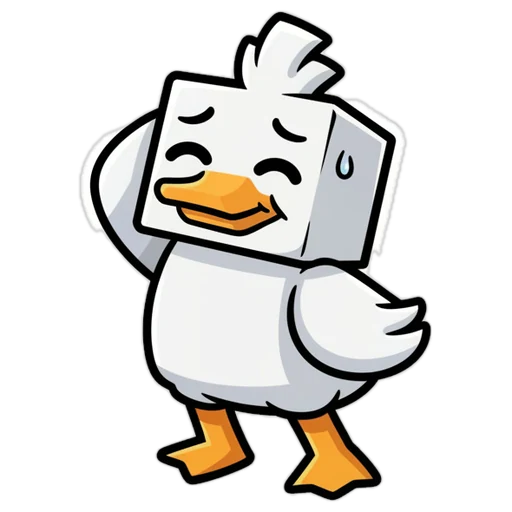
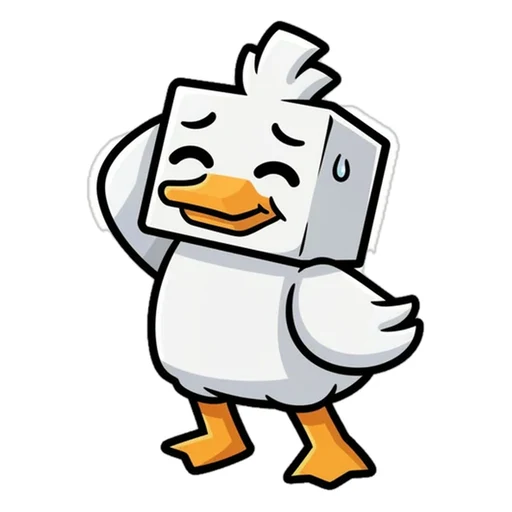
Га-Га: удалены 6 эмоций, всем без обводки добавлена белая обводка-стикер

Changed region(s): [[0.1562, 0.0, 0.8438, 1.0]]

diff --git a/lib/gagaVoice.ts b/lib/gagaVoice.ts
@@ -9,14 +9,14 @@ export type GagaEvent = 'start' | 'correct' | 'wrong' | 'rule' | 'streak' | 'che
 export type GagaLine = { id: string; event: GagaEvent; text: string }
 
 export const GAGA_EMOTION: Record<GagaEvent, string> = {
-    start: '/gaga/gaga-happy.webp',
-    correct: '/gaga/gaga-happy.webp',
-    wrong: '/gaga/gaga-oops.webp',
+    start: '/gaga/gaga-happy-2.webp',
+    correct: '/gaga/gaga-happy-2.webp',
+    wrong: '/gaga/gaga-oops-4.webp',
     rule: '/gaga/gaga-shock.webp',
     streak: '/gaga/gaga-fire.webp',
     chest: '/gaga/gaga-chest.webp',
-    levelup: '/gaga/gaga-happy.webp',
-    done: '/gaga/gaga-happy.webp',
+    levelup: '/gaga/gaga-happy-2.webp',
+    done: '/gaga/gaga-happy-2.webp',
     boss: '/gaga/gaga-angry.webp',
     night: '/gaga/gaga-sleep.webp',
 }
@@ -24,14 +24,14 @@ export const GAGA_EMOTION: Record<GagaEvent, string> = {
 // Все варианты стикеров на событие — выбираем случайный, чтобы не приедалось (public/gaga/)
 const G = (n: string) => `/gaga/gaga-${n}.webp`
 export const GAGA_EMOTIONS: Record<GagaEvent, string[]> = {
-    start: [G('wave'), G('wave-2'), G('happy'), G('teacher'), G('teacher-2')],
-    correct: [G('happy'), G('happy-2'), G('happy-3'), G('proud')],
-    wrong: [G('oops'), G('oops-2'), G('oops-3'), G('oops-4'), G('sad')],
-    rule: [G('shock'), G('shock-2'), G('teacher'), G('teacher-2')],
+    start: [G('wave'), G('wave-2'), G('teacher'), G('teacher-2')],
+    correct: [G('happy-2'), G('happy-3'), G('proud-2')],
+    wrong: [G('oops-3'), G('oops-4'), G('sad')],
+    rule: [G('shock'), G('teacher'), G('teacher-2')],
     streak: [G('fire'), G('fire-2'), G('fire-3')],
     chest: [G('chest')],
-    levelup: [G('proud'), G('proud-2'), G('happy-2')],
-    done: [G('proud'), G('proud-2'), G('happy'), G('happy-3'), G('pizza'), G('pizza-3')],
+    levelup: [G('proud-2'), G('happy-2')],
+    done: [G('proud-2'), G('happy-3'), G('pizza'), G('pizza-3')],
     boss: [G('angry')],
     night: [G('sleep')],
 }

diff --git a/components/geometry/unclear-button.tsx b/components/geometry/unclear-button.tsx
@@ -83,7 +83,7 @@ export const UnclearButton = ({ className, style }: { className?: string; style?
                 <DialogContent className="max-w-[360px] gap-3 bg-[#161F23] border-[#3A464E]">
                     <DialogHeader className="gap-1 items-center text-center">
                         {/* eslint-disable-next-line @next/next/no-img-element */}
-                        <img src="/gaga/gaga-oops.webp" alt="" className="w-24 h-24 object-contain -mt-1" />
+                        <img src="/gaga/gaga-oops-4.webp" alt="" className="w-24 h-24 object-contain -mt-1" />
                         <DialogTitle className="text-lg text-[#F2F7FB]">Непонятно? Спасибо, что сказал! 💜</DialogTitle>
                         <DialogDescription className="text-sm text-[#9AA7B0]">
                             Ты помогаешь сделать урок понятнее для всех. Допиши, что именно запутало, или просто отправь как есть.

diff --git a/components/trainer-pet.tsx b/components/trainer-pet.tsx
@@ -91,7 +91,7 @@ export const TrainerPet = ({ streak, hasExtendedToday, questDone, dayKey, compac
     let mood: Mood
     if (cheer) mood = cheer
     else if (streak > 0 && !hasExtendedToday && late) mood = { src: '/gaga/gaga-sleep.webp', text: 'Га… серия сгорит! Хоть один урок?' }
-    else if (questDone) mood = { src: '/gaga/gaga-proud.webp', text: GOOSE_QUEST[dayKey % GOOSE_QUEST.length] }
+    else if (questDone) mood = { src: '/gaga/gaga-proud-2.webp', text: GOOSE_QUEST[dayKey % GOOSE_QUEST.length] }
     else if (hasExtendedToday) mood = { src: '/gaga/gaga-fire.webp', text: 'Га-га! Серия жива. Ты босс 😎' }
     else mood = { src: GAGA_STAND, text: GOOSE_IDLE[dayKey % GOOSE_IDLE.length] }
 

diff --git a/CLAUDE.md b/CLAUDE.md
@@ -14485,9 +14485,9 @@ Speaks Russian naturally. Feels like a favourite teacher or a good uncle: calm, 
 «ошибка» вместе с картинкой Га-Га; не на каждый ответ (в уроке и так много звуков). Нужна кнопка «Голос Га-Га вкл/выкл»
 в аккаунте (ученики занимаются без звука — в транспорте, ночью).
 Стикеры эмоций Га-Га (2026-10-23, 12 новых): все в `public/gaga/gaga-<эмоция>[-N].webp`, 512×512, прозрачный фон.
-Радость — happy, happy-2, happy-3; Ой (ошибка) — oops, oops-2, oops-3, oops-4; Печаль — sad (добавлена 24.10); Шок (ЗАПОМНИ) — shock, shock-2; Огонь (серия/КОМБО) —
-fire, fire-2, fire-3; Сундук — chest; Сон — sleep; Злость (босс) — angry; Думает — think; Гордость/победа — proud, proud-2;
-Зовёт — wave, wave-2; Пицца — pizza, pizza-2, pizza-3; Учёный — teacher, teacher-2; монстр — monster-ege.
+Радость — happy-2, happy-3; Ой (ошибка) — oops-3, oops-4; Печаль — sad (добавлена 24.10); 24.10 удалены happy, oops, oops-2, pizza-2, proud, shock-2, всем без обводки добавлена белая обводка-стикер (размытие маски + порог, без острых углов); Шок (ЗАПОМНИ) — shock; Огонь (серия/КОМБО) —
+fire, fire-2, fire-3; Сундук — chest; Сон — sleep; Злость (босс) — angry; Думает — think; Гордость/победа — proud-2;
+Зовёт — wave, wave-2; Пицца — pizza, pizza-3; Учёный — teacher, teacher-2; монстр — monster-ege.
 В коде пока используется только gaga-oops (кнопка «Непонятно»). Как вырезать новые: маска Apple Vision
 (`VNGenerateForegroundInstanceMaskRequest`, Swift) ОБЪЕДИНЁННАЯ с заливкой белого фона от углов (Vision один теряет мелкие
 детали — «?», сердечки, капли, конфетти), обрезка по маске, квадрат с полем 4%, 512px, WebP q88. Несколько картинок на
